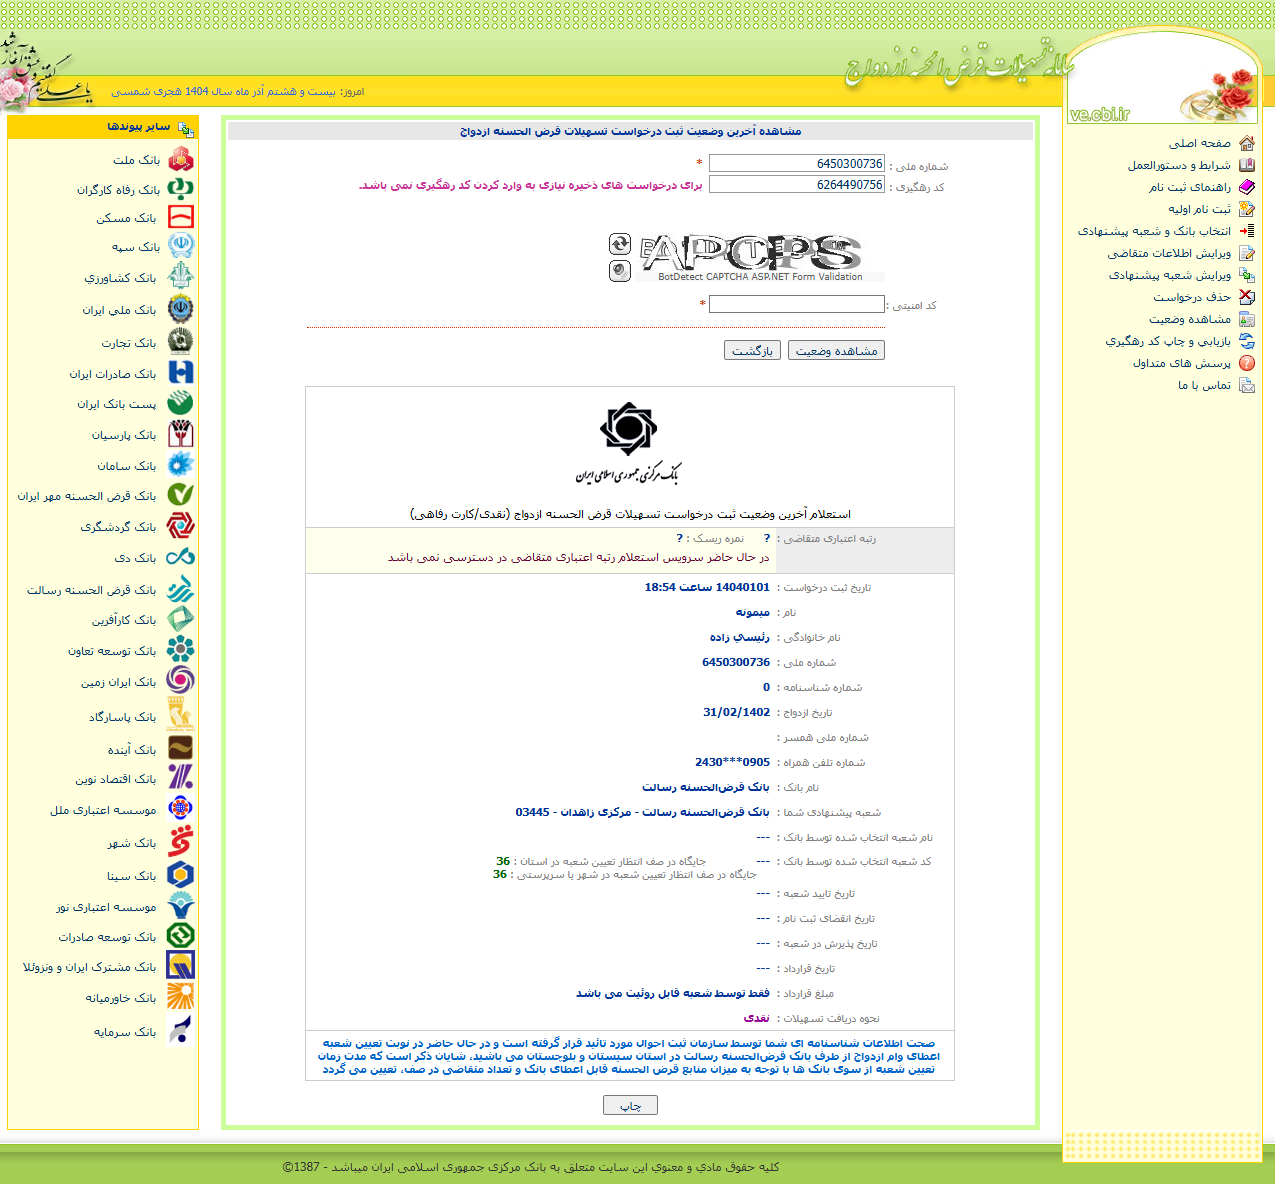
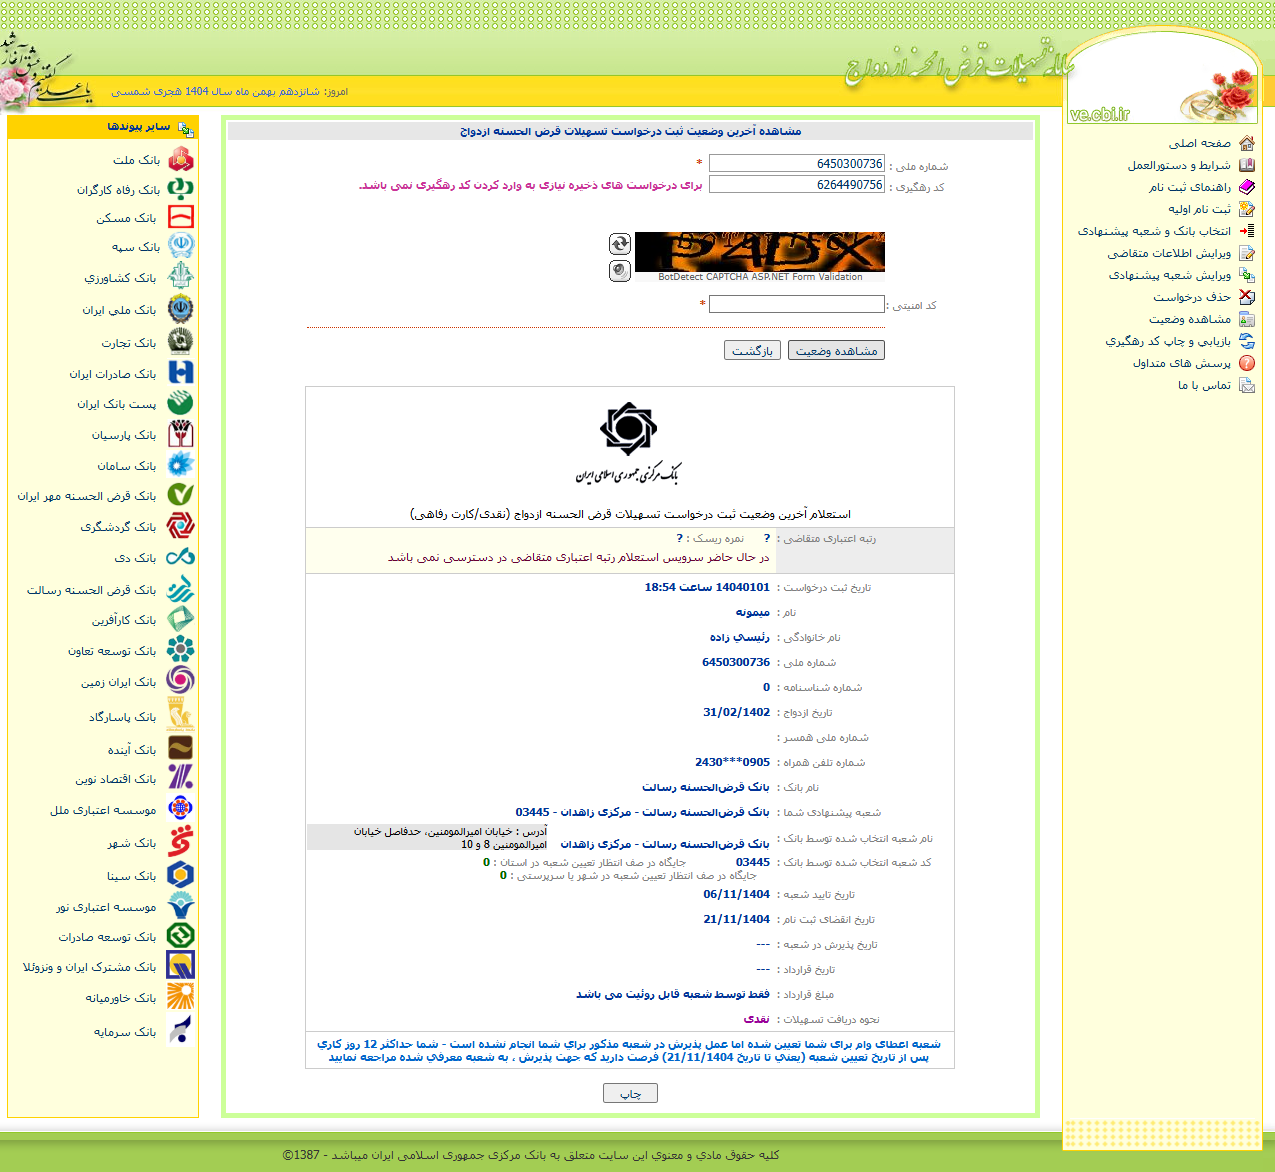
OTP پیامک اوکی هست

diff --git a/scripts/sanity_check_db.py b/scripts/sanity_check_db.py
@@ -1,0 +1,14 @@
+def main() -> int:
+    from database import DBHandler
+
+    sample = DBHandler.get_applicant("NON_EXISTENT")
+    if sample is not None and not isinstance(sample, dict):
+        print("ERROR: get_applicant should return dict or None")
+        return 1
+
+    print("OK: get_applicant returns dict or None")
+    return 0
+
+
+if __name__ == "__main__":
+    raise SystemExit(main())
